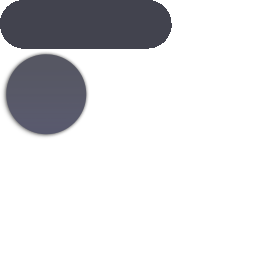
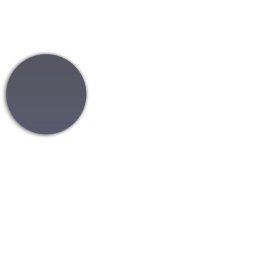
[fix]:修改SC底图

Changed region(s): [[0.0, 0.0, 0.6875, 0.2188]]

diff --git a/BiliLiveVisual/Assets/Scripts/Games/Modules/MainUI/Widget/SuperChatCom.cs b/BiliLiveVisual/Assets/Scripts/Games/Modules/MainUI/Widget/SuperChatCom.cs
@@ -1,5 +1,6 @@
 
 using THGame.UI;
+using UnityEngine;
 using XLibGame;
 using XLibrary;
 
@@ -34,6 +35,9 @@ namespace BLVisual
             content.SetText(string.Format("[color={0}]{1}[/color]", superChatMessage.message_font_color, superChatMessage.message));
             headLoader.SetHeadData(superChatMessage.face);
 
+            var colorBarBar = colorBar.GetChild<FLoader>("bar");
+            if (ColorUtility.TryParseHtmlString(superChatMessage.background_color, out var nowColor))
+                colorBarBar.SetColor(nowColor);
             colorBar.SetValueMax(100, 100);
             colorBar.TweenValue(0, superChatMessage.time);
             recycleTimerId = Timer.GetInstance().ScheduleOnce(() =>

diff --git a/BiliLiveVisual/Assets/Scripts/Configs/Profile/P_CtrlView.cs b/BiliLiveVisual/Assets/Scripts/Configs/Profile/P_CtrlView.cs
@@ -78,7 +78,11 @@ namespace BLVisual
                             time = 60,
                             price = 30,
                             message_font_color = "#000000",
-                            background_price_color= "#FFFFFF",
+                            background_price_color = "#FFFFFF",
+                            background_bottom_color = "#FFFFFF",
+                            background_color = "#FFFFFF",
+                            background_color_end = "#FFFFFF",
+                            background_color_start = "#FFFFFF",
                         }) ;
                     }
                 }),

diff --git a/BiliLiveVisual/Assets/Scripts/3rd/THFramework/UNIVERSAL/UISystem/FGUI/Base/FLoader.cs b/BiliLiveVisual/Assets/Scripts/3rd/THFramework/UNIVERSAL/UISystem/FGUI/Base/FLoader.cs
@@ -1,4 +1,5 @@
 using FairyGUI;
+using UnityEngine;
 
 namespace THGame.UI
 {
@@ -29,6 +30,16 @@ namespace THGame.UI
         public NTexture GetTexture()
         {
             return _obj.asLoader.texture;
+        }
+
+        public void SetColor(Color color)
+        {
+            _obj.asLoader.color = color;
+        }
+
+        public Color GetColor()
+        {
+            return _obj.asLoader.color;
         }
 
         public new void Center()
